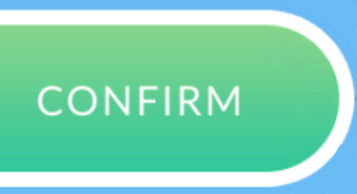
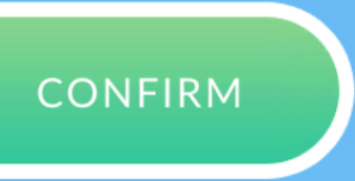
Replace screenshots and fix scaling

Changed region(s): [[0.0, 0.0, 1.0, 0.9945], [0.093, 0.4144, 0.6817, 0.6077], [0.093, 0.5249, 0.2479, 0.6077]]

diff --git a/src/api/opencv/openCvProvider.tsx b/src/api/opencv/openCvProvider.tsx
@@ -1,6 +1,6 @@
 import React, { useMemo, useRef, useState } from "react";
 import { OpenCvContext, type MatchResult } from "./openCvContext";
-import cv, { Exception } from "@techstark/opencv-js";
+import cv from "@techstark/opencv-js";
 import { TEMPLATES, TradeStep } from "../statemachine/constants";
 
 
@@ -36,9 +36,15 @@ export const OpenCvProvider: React.FC<{ children: React.ReactNode }> = ({
     >(new Map());
 
     const initialize = (deviceWidth: number, deviceHeight: number) => {
-        const widthFactor = deviceWidth / referenceDevice.WIDTH;
-        const heightFactor = deviceHeight / referenceDevice.HEIGHT;
+        // Only scale if width differs
+        let widthFactor = 1;
+        let heightFactor = 1;
 
+        if (deviceWidth !== referenceDevice.WIDTH) {
+            widthFactor = deviceWidth / referenceDevice.WIDTH;
+            heightFactor = deviceHeight / referenceDevice.HEIGHT;
+        } 
+        
         preloadTemplates(widthFactor, heightFactor);
     }
 
@@ -46,6 +52,7 @@ export const OpenCvProvider: React.FC<{ children: React.ReactNode }> = ({
         widthFactor: number,
         heightFactor: number
     ) {
+        // console.log("preloading factors", widthFactor, heightFactor);
         for (const [step, templateUrl] of Object.entries(TEMPLATES)) {
 
             const tradeStep = Number(step) as TradeStep;
@@ -70,7 +77,7 @@ export const OpenCvProvider: React.FC<{ children: React.ReactNode }> = ({
                     ? cv.INTER_AREA
                     : cv.INTER_LINEAR
             );
-
+            // console.log(widthFactor, original.cols, scaled.cols, heightFactor, original.rows, scaled.rows)
             original.delete();
             templateCache.current.set(tradeStep, scaled);
         }
@@ -105,7 +112,7 @@ export const OpenCvProvider: React.FC<{ children: React.ReactNode }> = ({
         cv.matchTemplate(src, tpl, result, cv.TM_CCOEFF_NORMED);
 
         const minMax = (cv as any).minMaxLoc(result);
-        console.log("[findButton] match score:", minMax.maxVal, "| location:", minMax.maxLoc);
+        // console.log("[findButton] match score:", minMax.maxVal, "| location:", minMax.maxLoc);
 
         src.delete();
         result.delete();

diff --git a/src/components/TradeSettings.tsx b/src/components/TradeSettings.tsx
@@ -1,8 +1,10 @@
-import { Card, Form, InputNumber, Button, Flex, Progress, Tag, type ProgressProps, Typography } from "antd";
+import { Card, Form, InputNumber, Button, Flex, Progress, Tag, type ProgressProps, Switch, Modal, Typography } from "antd";
 import { useState } from "react";
 import { useAdb } from "../api/adb/useAdb";
 import { useTradeMachine } from "../api/statemachine/useTradeMachine";
 import { useOpenCv } from "../api/opencv/useOpenCv";
+
+
 
 const TradeSettings: React.FC = () => {
     const { isReady: adbReady, getDeviceDimensions } = useAdb();
@@ -40,6 +42,20 @@ const TradeSettings: React.FC = () => {
         setCalibrationInfo({ success: true, message: `${dimensions.deviceWidth}px / ${dimensions.deviceHeight}px` })
     }
 
+    const openInfoModal = async () => {
+        Modal.info({
+            title: "Prepare your phone",
+            width: 600,
+            content: <>
+                <Typography.Title level={5}>1. Trade button visible?</Typography.Title>
+                <Typography.Text>Make sure the button to start a trade is visible and not covered by other buttons (e.g. the close button on small devices).</Typography.Text>
+                <Typography.Title level={5}>2. Complete one manual trade</Typography.Title>
+                <Typography.Text>Complete one manual trade so the search string or tag remains in the mon selection menu.</Typography.Text>
+            </>
+            
+        })
+    }
+
     return <Card title="Trade Settings" variant="borderless" style={{ width: 300 }}>
         <Form layout="vertical">
             <Form.Item label="Number of trades">
@@ -66,6 +82,11 @@ const TradeSettings: React.FC = () => {
                     </Tag>}
                 </Flex>
             </Form.Item>
+
+            {/* <Form.Item label="Prepared trade window">
+                <Switch onClick={openInfoModal}/>
+            </Form.Item> */}
+
 
             <Form.Item >
                 <Button

diff --git a/src/api/statemachine/tradeMachineProvider.tsx b/src/api/statemachine/tradeMachineProvider.tsx
@@ -1,7 +1,7 @@
 import React, { useMemo, useRef, useState } from "react";
 
 import { TradeMachineContext } from "./tradeMachineContext";
-import { DELAY_AFTER_TAP, EXCEPTION_TEMPLATES, MATCH_THRESHOLDS, MAX_RETRIES, RETRY_DELAY_MS, SCREENSHOT_FAIL_DELAY_MS, STEPS_IN_ORDER, TEMPLATES, TradeStep, type TradeMachineState } from "./constants";
+import { DELAY_AFTER_TAP, MATCH_THRESHOLDS, MAX_RETRIES, RETRY_DELAY_MS, SCREENSHOT_FAIL_DELAY_MS, STEPS_IN_ORDER, TradeStep, type TradeMachineState } from "./constants";
 import { useOpenCv } from "../opencv/useOpenCv";
 import { useAdb } from "../adb/useAdb";
 import { getErrorMessage } from "./error";
@@ -54,11 +54,11 @@ export const TradeMachineProvider: React.FC<{ children: React.ReactNode }> = ({
 
         for (let i = 0; i < numberOfTrades; i++) {
             if (stopRef.current) return;
-            console.log("Trade", i);
+
             for (const tradeStep of STEPS_IN_ORDER) {
                 if (stopRef.current) return;
                 setCurrentStep(tradeStep); // Update Observers
-                console.log("Step", tradeStep);
+
                 try {
                     await processStep(tradeStep);
                 } catch (error: unknown) {
@@ -69,6 +69,7 @@ export const TradeMachineProvider: React.FC<{ children: React.ReactNode }> = ({
             }
             setCurrentTradeIndex((prev) => prev + 1);
         }
+        setCurrentMachineState("SUCCESS");
     };
 
     const processStep = async (currentStep: TradeStep) => {
@@ -76,7 +77,6 @@ export const TradeMachineProvider: React.FC<{ children: React.ReactNode }> = ({
             if (stopRef.current) return false;
 
             const screenshotUrl = await takeScreenshot();
-            console.log(screenshotUrl);
             if (!screenshotUrl) {
                 // Rare case where screenshot fails
                 await sleep(SCREENSHOT_FAIL_DELAY_MS);

diff --git a/src/api/statemachine/constants.ts b/src/api/statemachine/constants.ts
@@ -33,10 +33,10 @@ export const EXCEPTION_TEMPLATES: Record<string, string> = {
 
 
 export const MATCH_THRESHOLDS: Record<TradeStep, number> = {
-  [TradeStep.START_TRADE]: 0.55,
-  [TradeStep.SELECT_MON]: 0.9,
-  [TradeStep.CONFIRM_MON]: 0.9,
-  [TradeStep.CONFIRM_TRADE]: 0.9,
+  [TradeStep.START_TRADE]: 0.6,
+  [TradeStep.SELECT_MON]: 0.75,
+  [TradeStep.CONFIRM_MON]: 0.75,
+  [TradeStep.CONFIRM_TRADE]: 0.75,
   [TradeStep.CLOSE]: 0.75,
 };
 

diff --git a/src/components/Connect.tsx b/src/components/Connect.tsx
@@ -39,7 +39,7 @@ const ConnectSteps: React.FC= () => {
           setConnection(con);
         }
       } catch (error: unknown) {
-        console.log(error);
+        console.error(error);
         // Modal.error({
         //     title: "error"
         //   }

diff --git a/src/components/TradeProgress.tsx b/src/components/TradeProgress.tsx
@@ -47,7 +47,7 @@ const TradeProgress: React.FC  = () => {
   if (currentMachineState === "OFF") {
     return null;
   }
-
+  
   const items = [
     "Starting Trade",
     "Selecting Mon",
